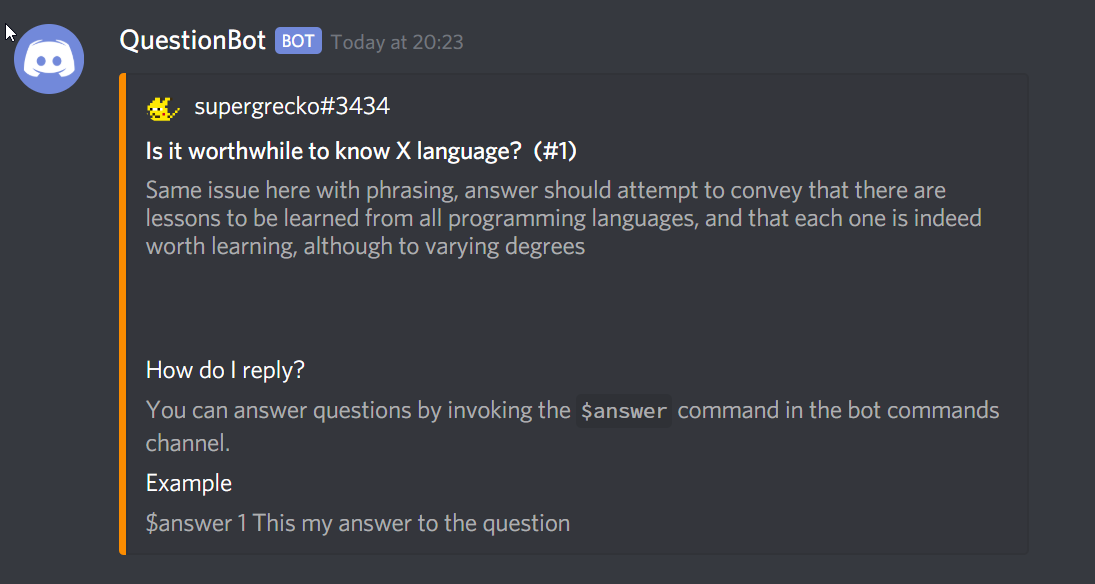
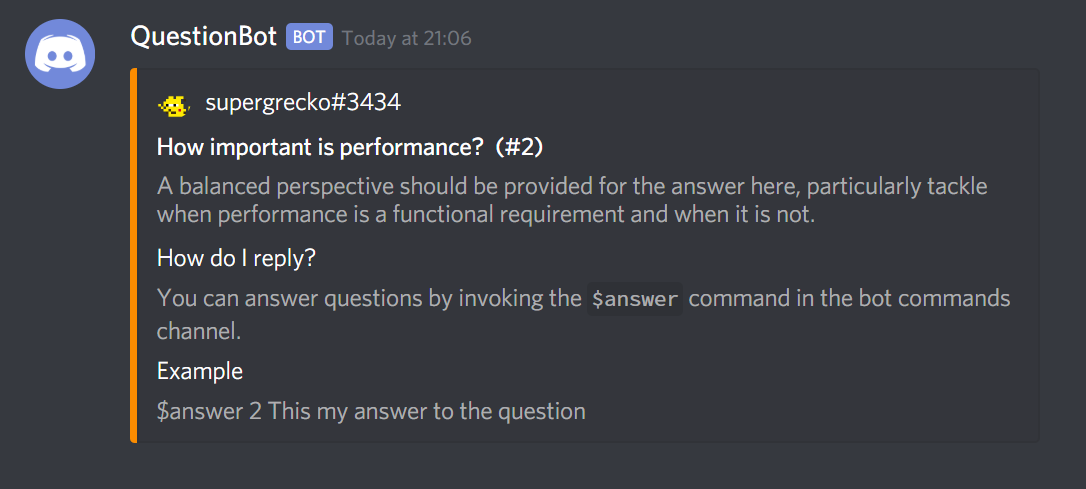
docs(0.0.0): Add images to answer examples

Changed region(s): [[0.0, 0.0307, 0.942, 0.9509]]

diff --git a/docs/commands-answer.md b/docs/commands-answer.md
@@ -13,6 +13,11 @@ These commands are invoked by the community to reply to the bounty questions.
 
 Answers a bounty question. Each user can only answer a question once.
 
+**Example**
+
+![Example](/.github/assets/commands/answer-example-1.png)
+![Example](/.github/assets/commands/answer-example-2.png)
+
 **Syntax**
 
 ```
@@ -28,6 +33,10 @@ $answer <id> <answer>
 
 Deletes your answer for a question
 
+**Example**
+                 
+![Example](/.github/assets/commands/answer-delete-example.png)
+
 **Syntax**
 
 ```
@@ -41,6 +50,11 @@ $delete <id>
 ## Edit
 
 Edits your answer to a question
+
+**Example**
+
+![Example](/.github/assets/commands/answer-edit-example-1.png)
+![Example](/.github/assets/commands/answer-edit-example-2.png)
 
 **Syntax**
 
@@ -56,6 +70,10 @@ $edit <question> <answer>
 ## List
 
 Lists all the responses to a question, if any
+
+**Example**
+
+![Example](/.github/assets/commands/answer-list-example.png)
 
 **Syntax**
 

diff --git a/docs/deployment.md b/docs/deployment.md
@@ -19,11 +19,11 @@ Running the bot is also super simple.
 
 ```bash               
 # Run the bot to generate config files and to start the container
-docker run -e <your discord token> docker.pkg.github.com/supergrecko/questionbot/questionbot:latest      
+docker run -e DISCORD_TOKEN=your-discord-token docker.pkg.github.com/supergrecko/questionbot/questionbot:latest      
        
 # Get the container name
 docker ps -a            
                
 # Restart the bot to actually run it
-docker restart <container name>
+docker restart the-container-name
 ```

diff --git a/README.md b/README.md
@@ -14,6 +14,7 @@ All the documentation for QuestionBot can be found inside the [docs](/docs) fold
 - [deployment](/docs/deployment.md): How to deploy the bot via Docker
 - [commands-ask](/docs/commands-ask.md): The ask command list
 - [commands-manage](/docs/command-manage.md): The configuration command list
+- [commands-answer](/docs/commands-answer.md): The answer command list
 
 ## License
 

diff --git a/docs/development.md b/docs/development.md
@@ -2,7 +2,7 @@
 
 These are the requirements to develop the bot.
 
-- Git (to clone, can also download .zip)
+- Git
 - JDK version 8+
 - IntelliJ IDEA
     - If you are not using IntelliJ IDEA you will need Maven as well.
